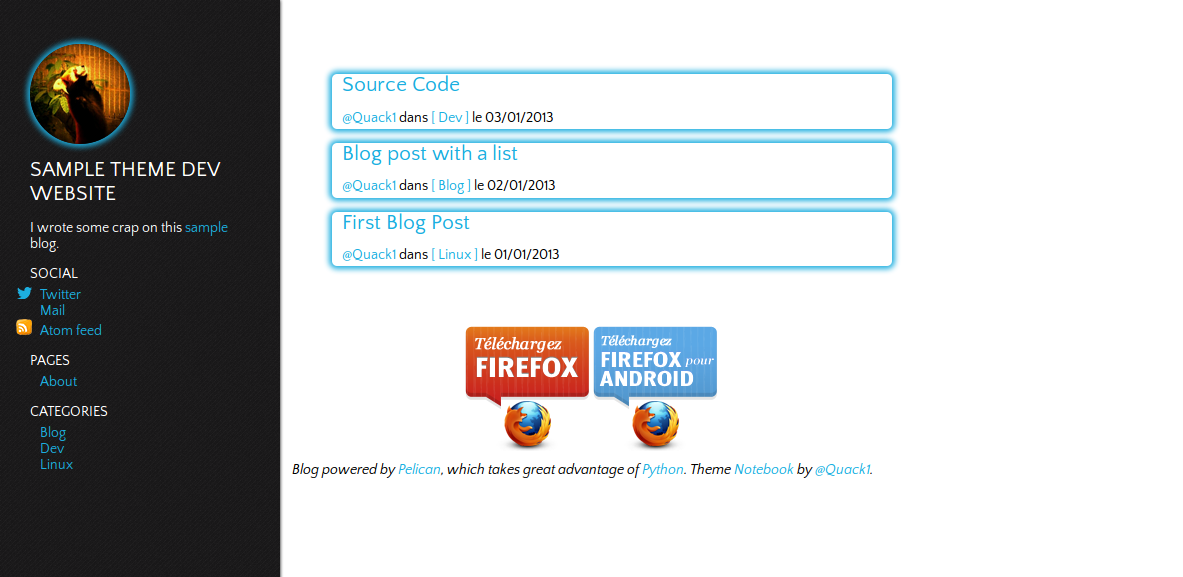
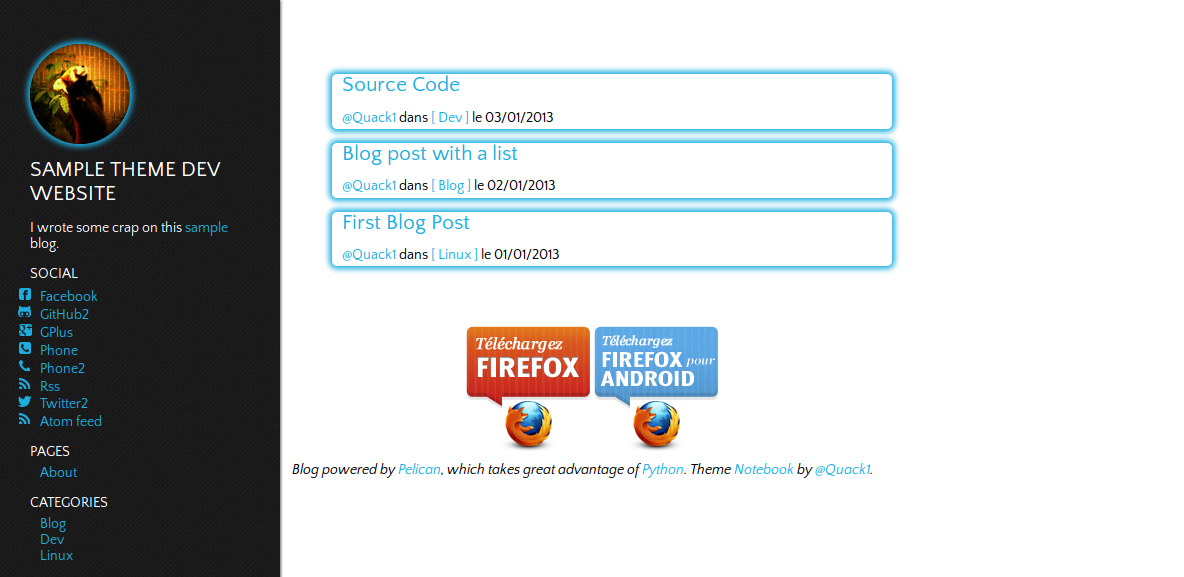
Add PingBack to FontAwesome and update screenshots

diff --git a/README.md b/README.md
@@ -51,3 +51,9 @@ On the articles, we added these variables :
 	<meta name="twitter:description" content="{{ article.Summary }}">
 
 The `article.summary` variable must be set on the header of the Rest/Markdown article source file (tag : `Summary:`). If not, the first `SUMMARY_MAX_LENGTH` words from the blog post will be used as a default summary.
+
+## Icons
+
+The social icons are from Font-Awesome, and colorized by myself.
+
+Font Awesome by Dave Gandy - http://fortawesome.github.com/Font-Awesome
